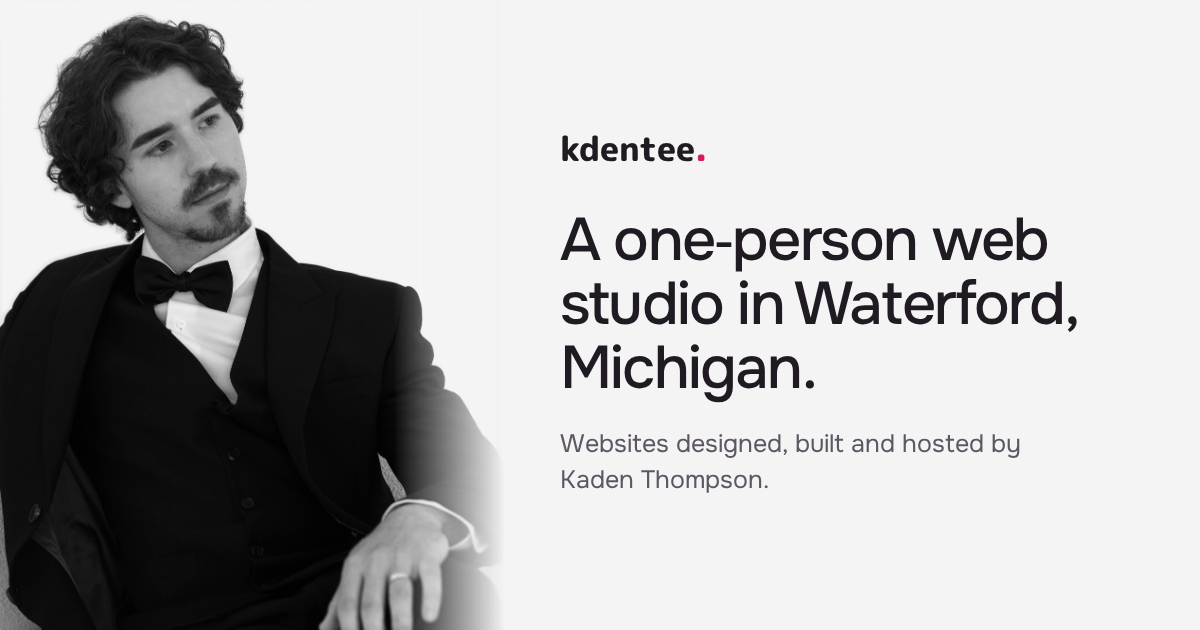
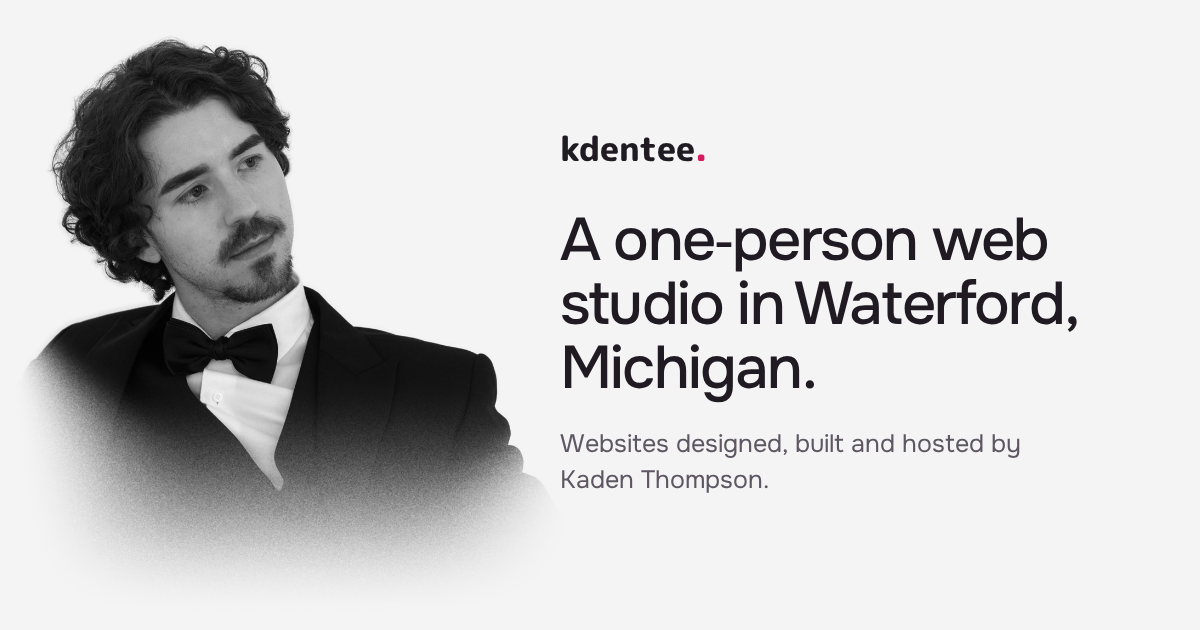
fix: replace the hero portrait's CSS edge fades with a baked vignette
The three short linear mask gradients read as a rectangle with blurred
edges. The portrait is now a vignetted bust: the dissolve follows an eased
(smootherstep) falloff shaped to the figure, with fine grain and dither
against banding, flattened onto the page colour by
docs/portrait-vignette.py. The light gap between arm and torso is
retouched out. The image is shown whole at every width with no mask, and
the link-preview image uses the same portrait.

Changed region(s): [[0.0, 0.0, 0.4625, 1.0]]

diff --git a/app/page.tsx b/app/page.tsx
@@ -162,17 +162,17 @@ function Hero() {
               <span className="font-semibold text-ink">{site.owner}</span>, {site.ownerRole}
             </p>
           </div>
-          {/* From md the portrait fills the row height: when the copy is taller (768–1023px) it crops
-              the arm side instead of floating low; at wider sizes it shows uncropped. */}
-          <figure className="md:order-1">
+          {/* The dissolve is baked into the image (docs/portrait-vignette.py), so it is always shown
+              whole: never crop it or add a CSS mask. */}
+          <figure className="md:order-1 md:self-center">
             <Image
               src={heroPortrait}
               alt="Kaden Thompson"
               priority
               // Served as-is: re-encoding shifts the #F4F4F4 backdrop by a level and a seam shows.
               unoptimized
-              sizes="(min-width: 1200px) 460px, (min-width: 768px) 40vw, 76vw"
-              className="hero-portrait hero-enter-portrait block aspect-square w-[76%] max-w-[22rem] object-cover object-top md:aspect-auto md:h-full md:w-full md:max-w-none md:object-left-top"
+              sizes="(min-width: 1200px) 460px, (min-width: 768px) 40vw, 82vw"
+              className="hero-enter-portrait block h-auto w-[82%] max-w-[23rem] md:w-full md:max-w-none"
             />
           </figure>
         </div>

diff --git a/app/globals.css b/app/globals.css
@@ -83,17 +83,6 @@
     transform: none;
   }
 
-  /* Hero portrait: no frame; left, right and bottom edges fade into the page
-     (three gradients intersected). The left fade (8%) only reaches the jacket. */
-  .hero-portrait {
-    --fade-x: linear-gradient(to right, transparent, #000 8%, #000 78%, transparent);
-    --fade-y: linear-gradient(to bottom, #000 82%, transparent);
-    -webkit-mask-image: var(--fade-x), var(--fade-y);
-    -webkit-mask-composite: source-in;
-    mask-image: var(--fade-x), var(--fade-y);
-    mask-composite: intersect;
-  }
-
   /* ---- Under-construction shot (ConstructionShot) ---- */
   .wip {
     container-type: inline-size;

diff --git a/docs/portrait-vignette.py b/docs/portrait-vignette.py
@@ -1,0 +1,62 @@
+"""Grade the hero portrait and bake a vignetted-bust dissolve into it.
+
+usage: python vignette.py <source.jpg> <out.jpg> [--debug]
+The result is flattened onto the site's paper colour (#F4F4F4), so it needs no CSS mask.
+"""
+import sys, numpy as np
+from PIL import Image
+from scipy import ndimage as ndi
+
+src, out = sys.argv[1], sys.argv[2]
+PAPER = 244.0
+OUT_H = 1130                                   # rows kept from the top of the frame
+
+def smoother(t):                               # smootherstep: zero slope AND curvature at both ends
+    t = np.clip(t, 0, 1); return t * t * t * (t * (t * 6 - 15) + 10)
+
+a = np.asarray(Image.open(src).convert("L"), dtype=np.float32)[:1330, :]
+H, W = a.shape
+
+# 1. tone curve: lift the studio backdrop to about paper, keep blacks
+adj = np.interp(a, np.array([0, .5, .87, 1]) * 255, np.array([0, .52, .957, 1]) * 255)
+
+# 2. backdrop -> exactly paper (bright, smooth region connected to the frame edges)
+bright = ndi.gaussian_filter(a, 3) > 200
+lab, _ = ndi.label(bright)
+border = np.zeros_like(bright); border[0, :] = True; border[:900, 0] = True; border[:900, -1] = True
+keep = np.unique(lab[border & bright]); keep = keep[keep != 0]
+bg = ndi.binary_erosion(np.isin(lab, keep), iterations=2, border_value=1)
+bgs = ndi.gaussian_filter(bg.astype(np.float32), 2.5)
+img = adj * (1 - bgs) + PAPER * bgs
+
+# 2b. retouch: the white couch shows through the gap between arm and torso; fill it with the
+#     jacket tone so it does not read as a light sliver inside the dissolve
+box = np.zeros_like(bg); box[930:1065, 775:890] = True
+gap = ndi.binary_dilation(box & (adj > 55), iterations=3)
+gaps = ndi.gaussian_filter(gap.astype(np.float32), 2.0)
+img = img * (1 - gaps) + 15.0 * gaps
+
+# 3. vignette: three long eased falloffs whose reach grows down the frame, so the
+#    kept area is a soft bust shape rather than a rectangle
+y = np.arange(H, dtype=np.float32)[:, None]; x = np.arange(W, dtype=np.float32)[None, :]
+bottom = 1 - smoother((y - 610) / (1110 - 610))            # chest dissolves over ~485 px
+wl = 1 + 400 * smoother((y - 400) / (900 - 400))            # left reach: 0 at head height
+wr = 1 + 430 * smoother((y - 520) / (1000 - 520))           # right reach: starts below the shoulder
+left = smoother(x / wl)
+right = smoother((W - 1 - x) / wr)
+alpha = bottom * left * right
+alpha = ndi.gaussian_filter(alpha, 14)                      # melt any remaining creases
+alpha = np.clip((alpha - 0.004) / 0.996, 0, 1)              # guarantee true zero at the frame
+
+# 4. composite on paper, with fine grain through the dissolve and TPDF dither against banding
+rng = np.random.default_rng(7)
+grain = ndi.gaussian_filter(rng.standard_normal((H, W)).astype(np.float32), 0.6)
+alpha_g = np.clip(alpha + grain * 0.075 * (4 * alpha * (1 - alpha)), 0, 1)
+res = img * alpha_g + PAPER * (1 - alpha_g)
+res += (rng.random((H, W)) - rng.random((H, W))) * 0.5 * (alpha > 0) * (alpha < 1)
+res = np.where(alpha <= 0, PAPER, res)[:OUT_H]
+Image.fromarray(np.clip(np.rint(res), 0, 255).astype(np.uint8)).save(out, quality=95, subsampling=0)
+if "--debug" in sys.argv:
+    Image.fromarray((alpha[:OUT_H] * 255).astype(np.uint8)).save(out.replace(".jpg", "-alpha.png"))
+edge = np.concatenate([res[:, 0], res[:, -1], res[-1, :]])
+print("frame edge min/max:", edge.min().round(1), edge.max().round(1), "size", res.shape[::-1])

diff --git a/docs/redesign-brief.md b/docs/redesign-brief.md
@@ -129,7 +129,7 @@ link · "GitHub" linking to https://github.com/KadenThomp36 · "© {year}".
 
 | File | What |
 |---|---|
-| `public/img/kaden-hero.jpg` (1067×1330) | Black-and-white portrait, backdrop graded to `#F4F4F4`. Hero only. Show it with no frame, radius or border; fade its right and bottom edges into the page with a CSS mask (see `/tmp/kd-mock/home-v5.html`, `.hero figure img`). He looks toward the right, so the photo sits LEFT of the headline on desktop. |
+| `public/img/kaden-hero.jpg` (1067×1130) | Black-and-white portrait as a vignetted bust: the backdrop is exactly `#F4F4F4` and the chest dissolves into it with an eased, grain-dithered falloff baked into the file by `docs/portrait-vignette.py`. Hero only. Always show it whole and unoptimized, with no frame, crop or CSS mask. He looks toward the right, so the photo sits LEFT of the headline on desktop. |
 | `public/img/kaden-about.jpg` (1067×1600) | Smiling portrait. Its backdrop does not match the page, so show it framed (12px radius). About page only. |
 | `public/img/work/lincoln-home.jpg`, `lincoln-meeting.jpg` (2000×1250) | Live Lincoln Township site |
 | `public/img/work/hope-blurred.jpg` | Pre-blurred Hope screenshot. The sharp one must never be added to the repo: the site is not launched. |
